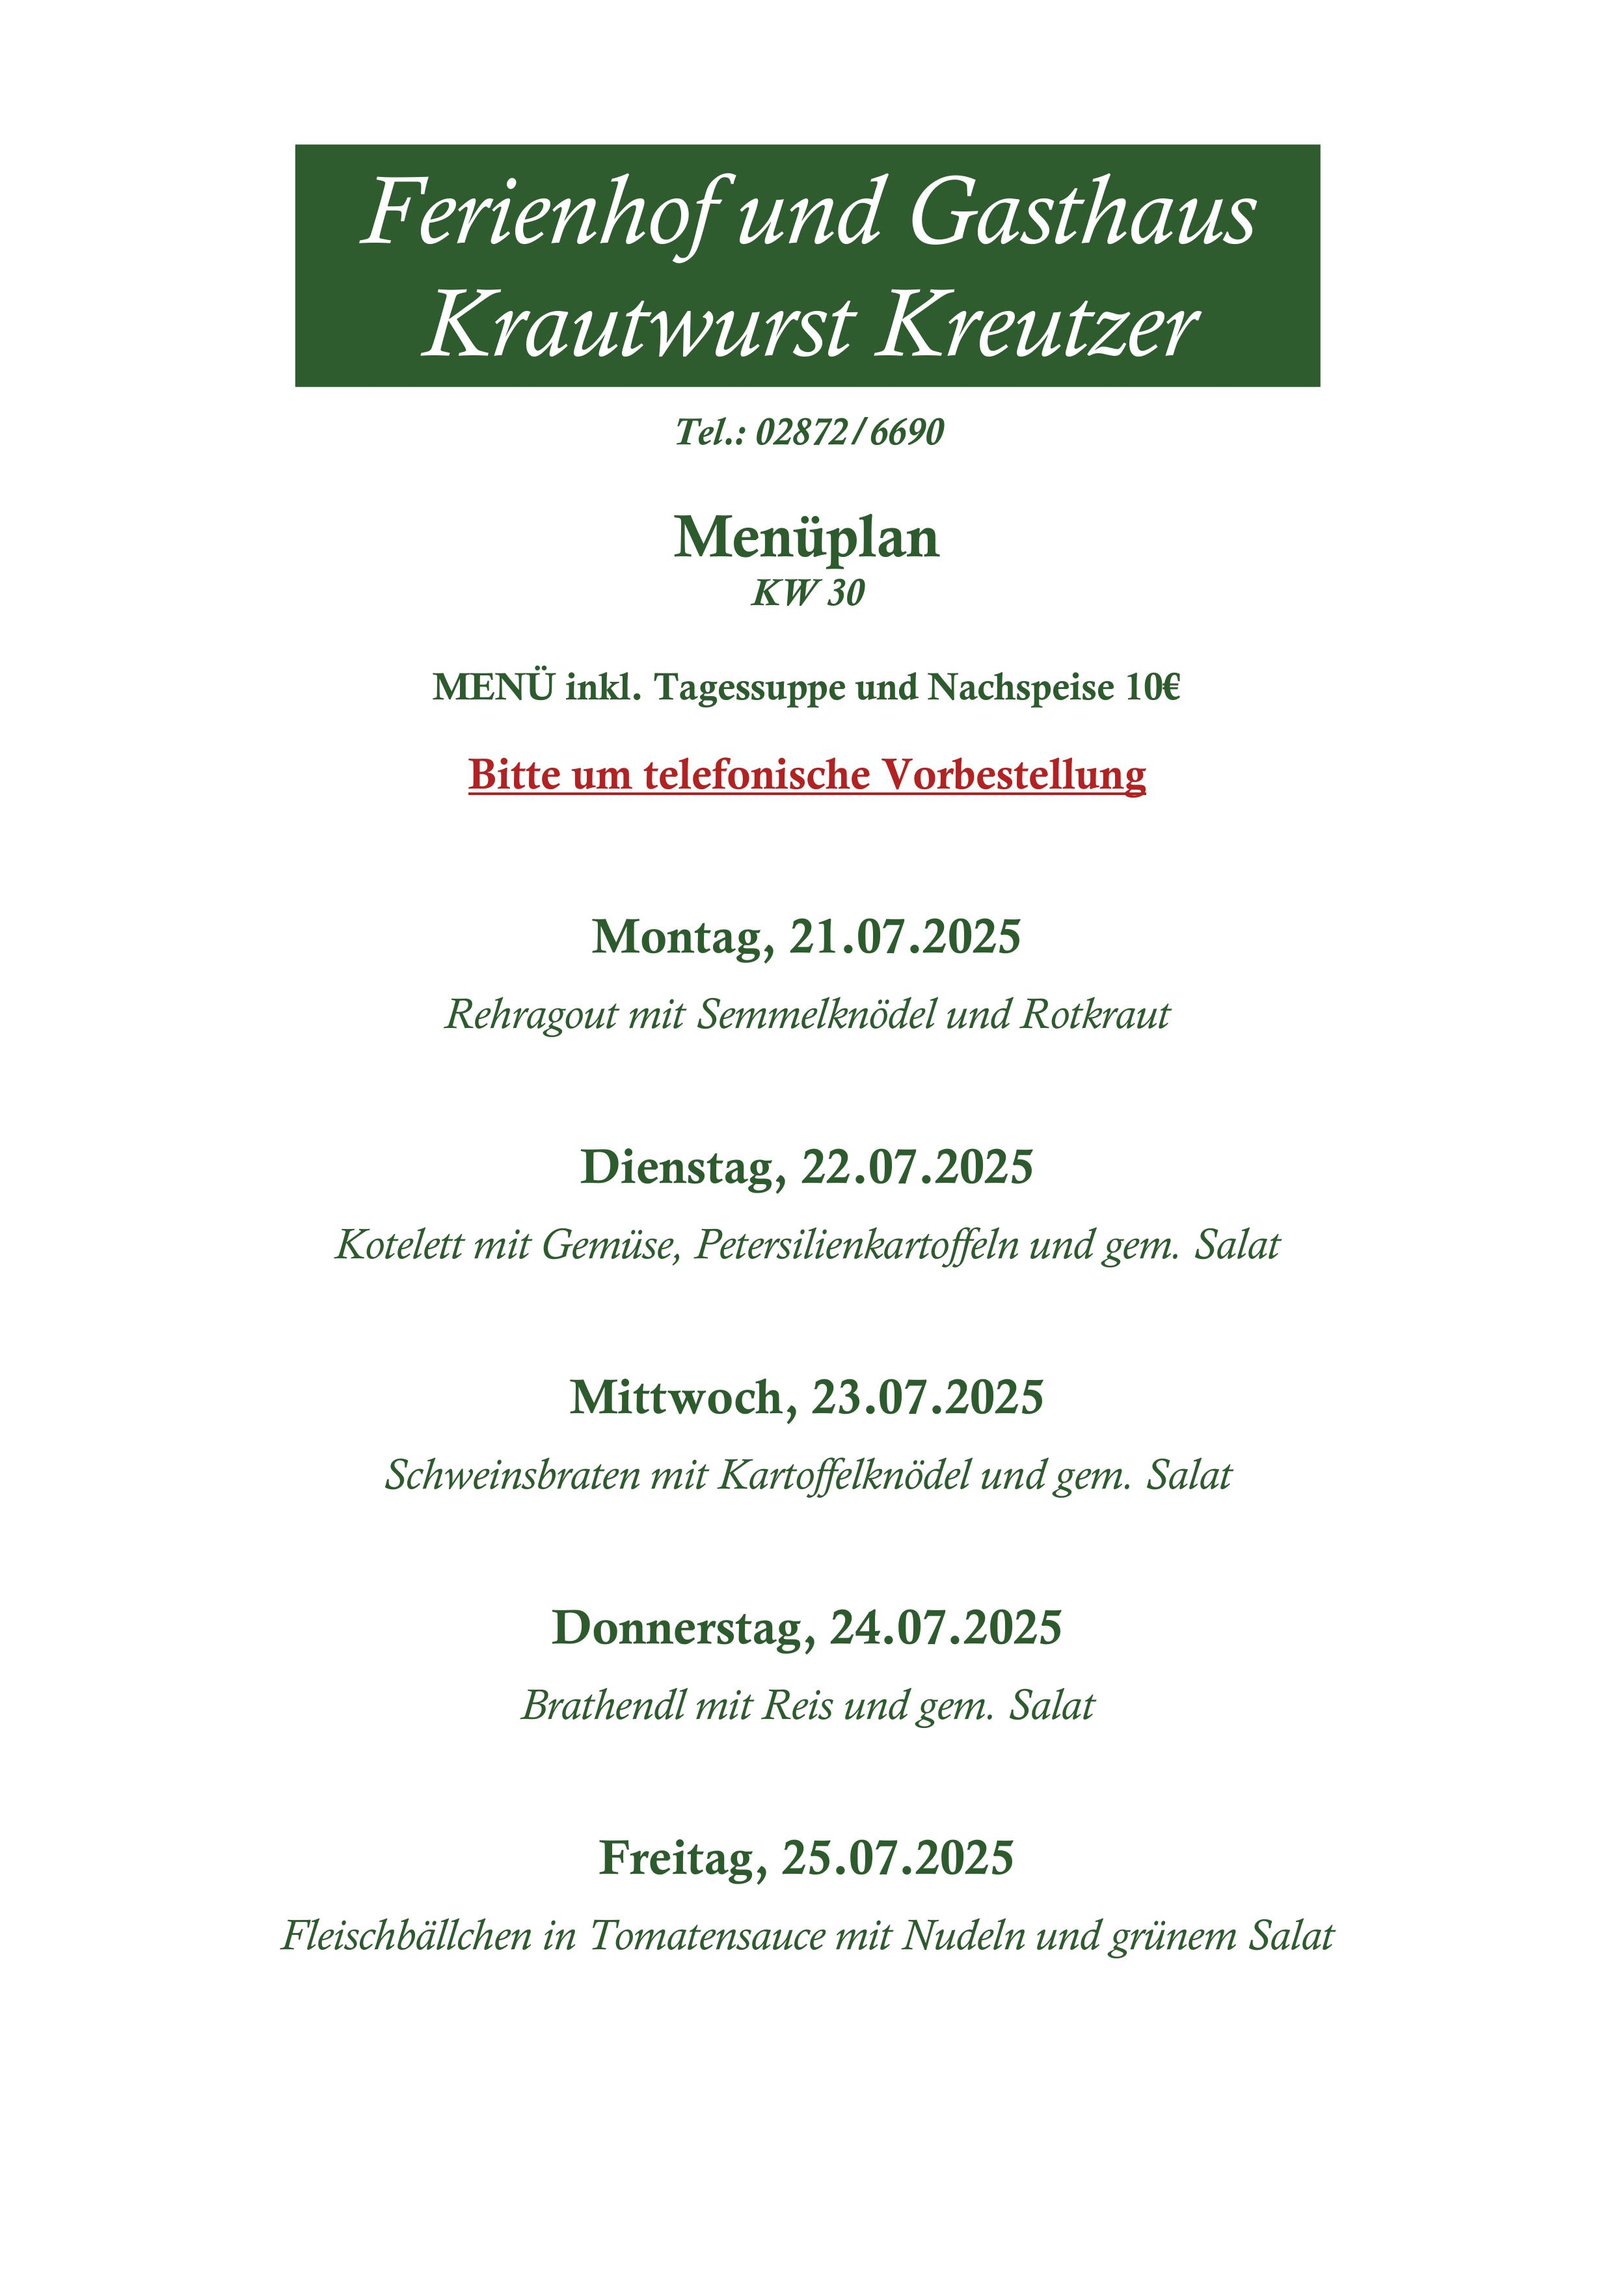
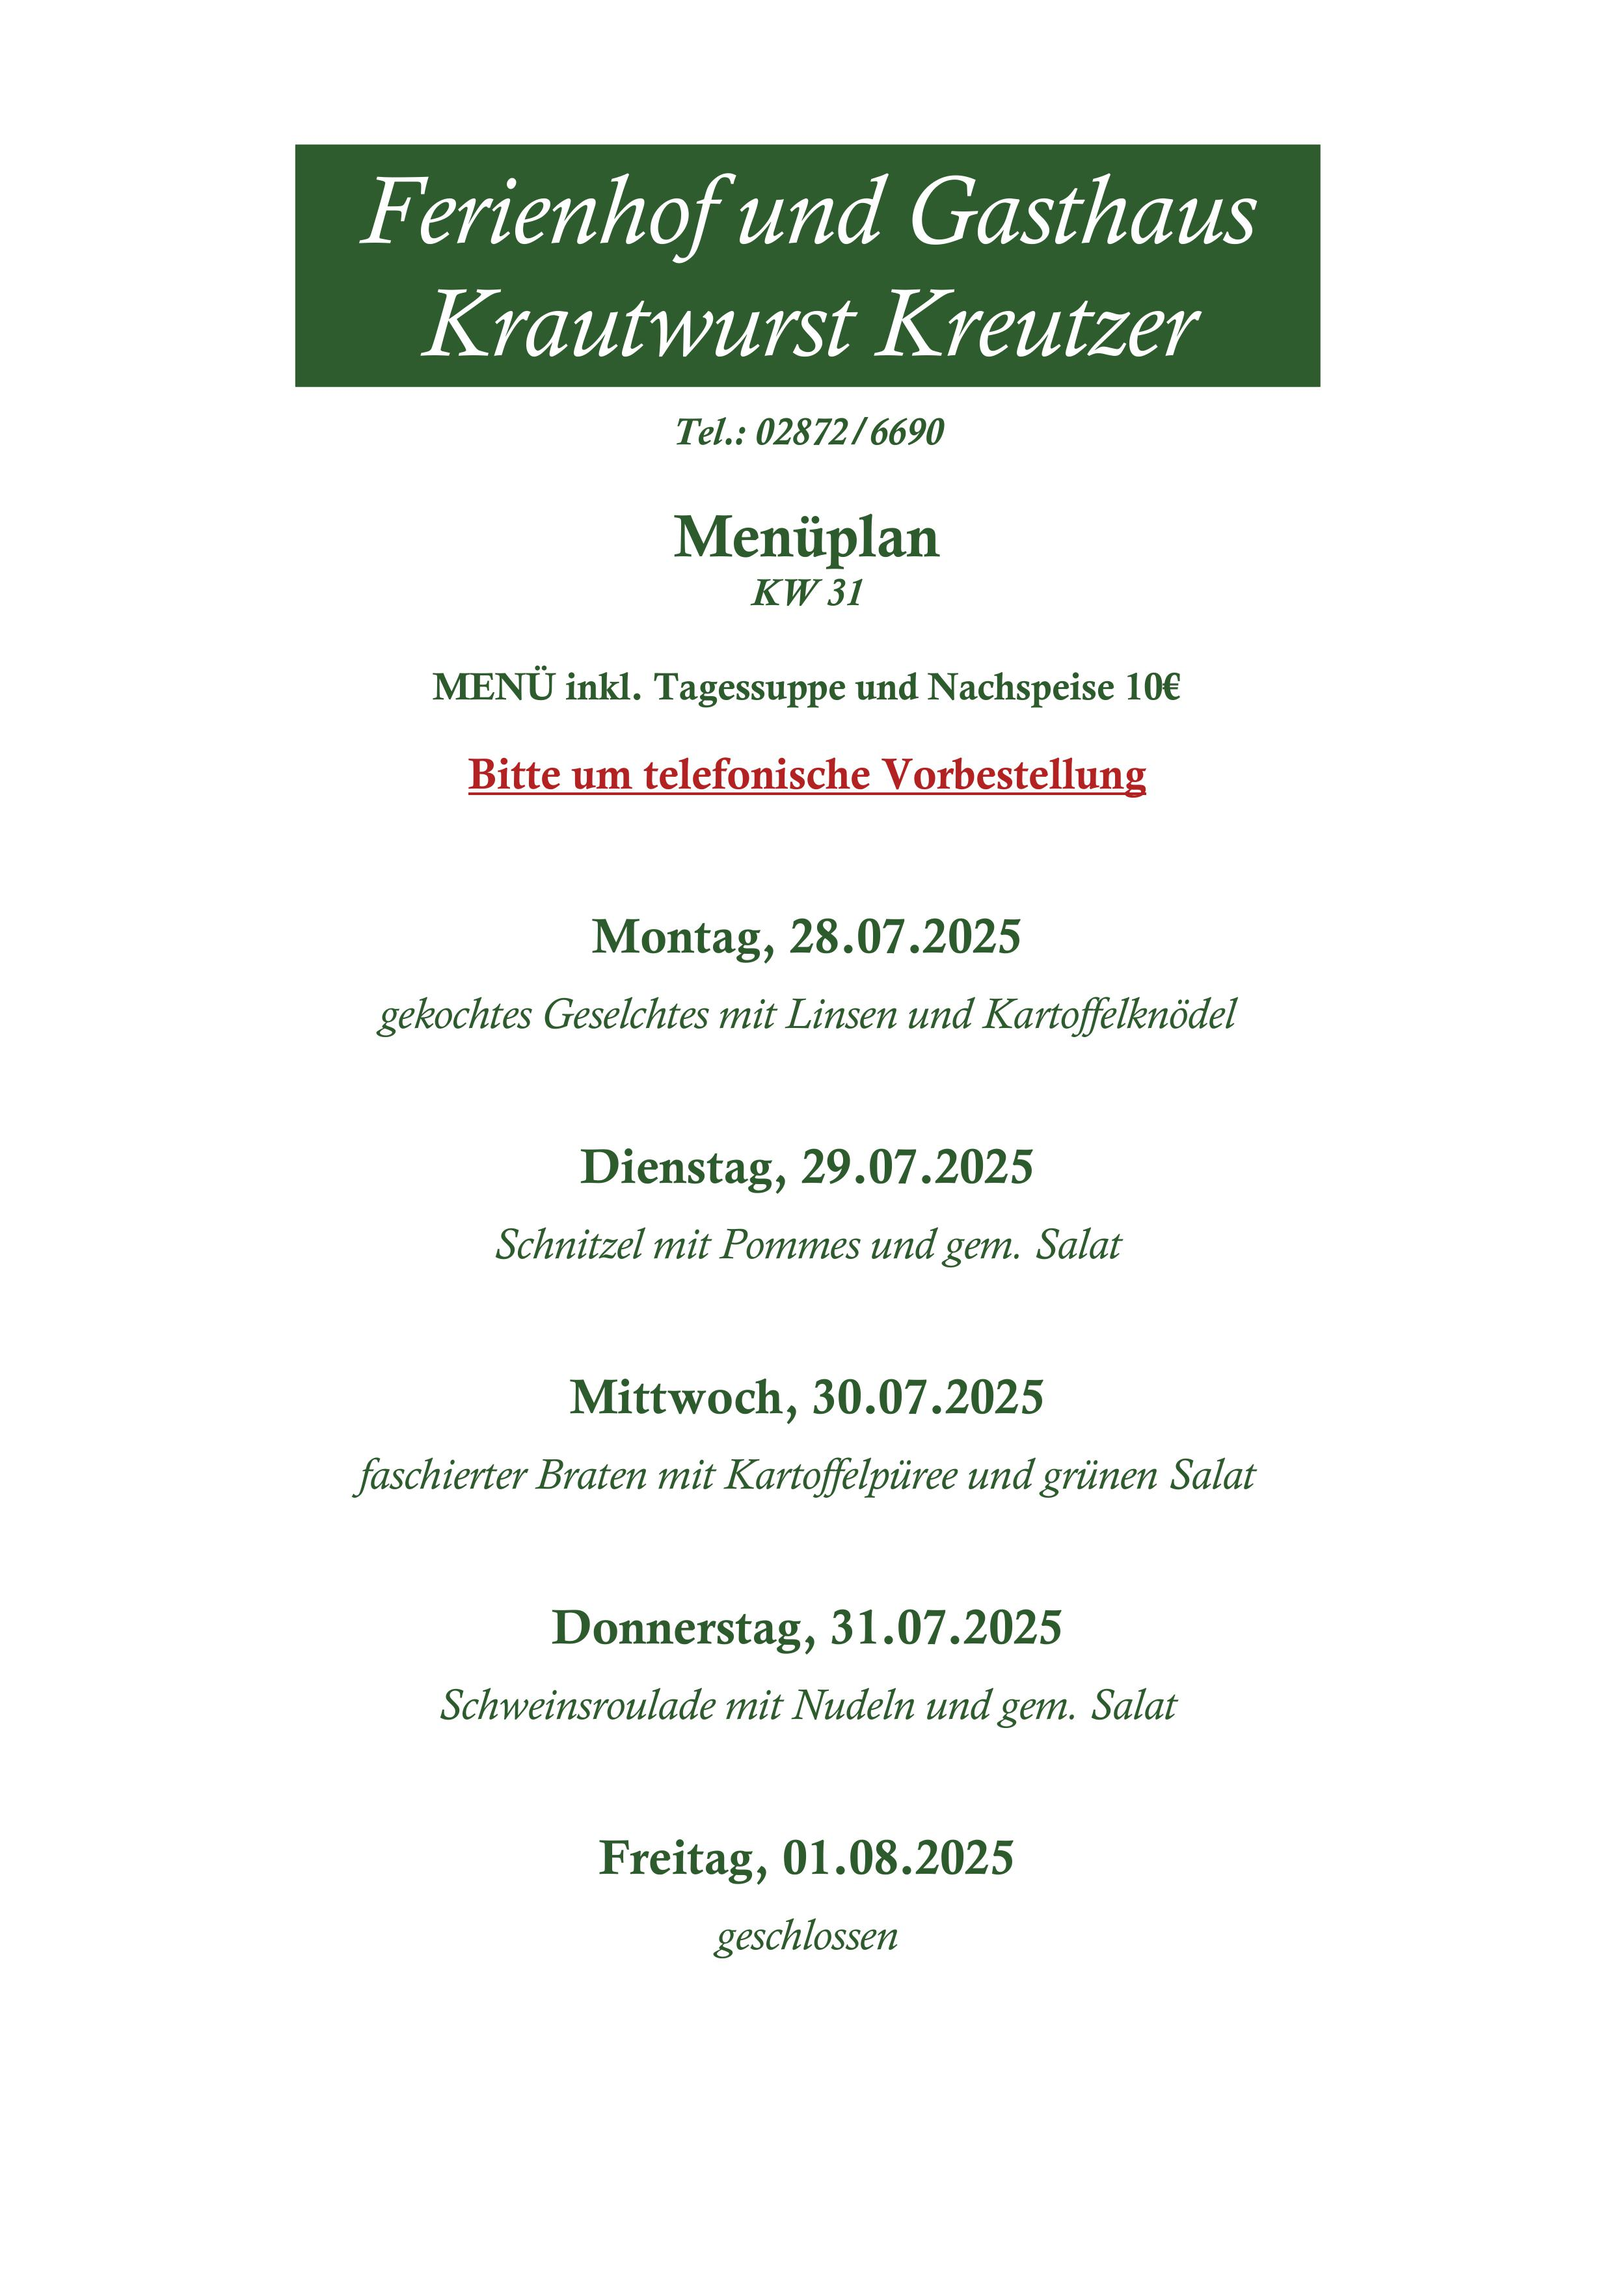
menu change and handy styling update

diff --git a/style.css b/style.css
@@ -13,6 +13,11 @@ body {
     min-height: 100vh;
 }
 
+html, body {
+    overflow-x: hidden;
+    max-width: 100vw;
+}
+
 /* Header & Navigation */
 header {
     background: linear-gradient(135deg, #2d5a2d 0%, #3e7b3e 100%);
@@ -917,5 +922,24 @@ footer {
     
     .signature-label {
         font-size: 1rem;
+    }
+}
+
+@media (max-width: 768px) {
+    .section-grid {
+        grid-template-columns: 1fr;
+        gap: 20px;
+    }
+    .booking-grid {
+        grid-template-columns: 1fr;
+        gap: 20px;
+    }
+    .container {
+        padding: 0 5px;
+    }
+    img, video {
+        max-width: 100%;
+        height: auto;
+        display: block;
     }
 }
